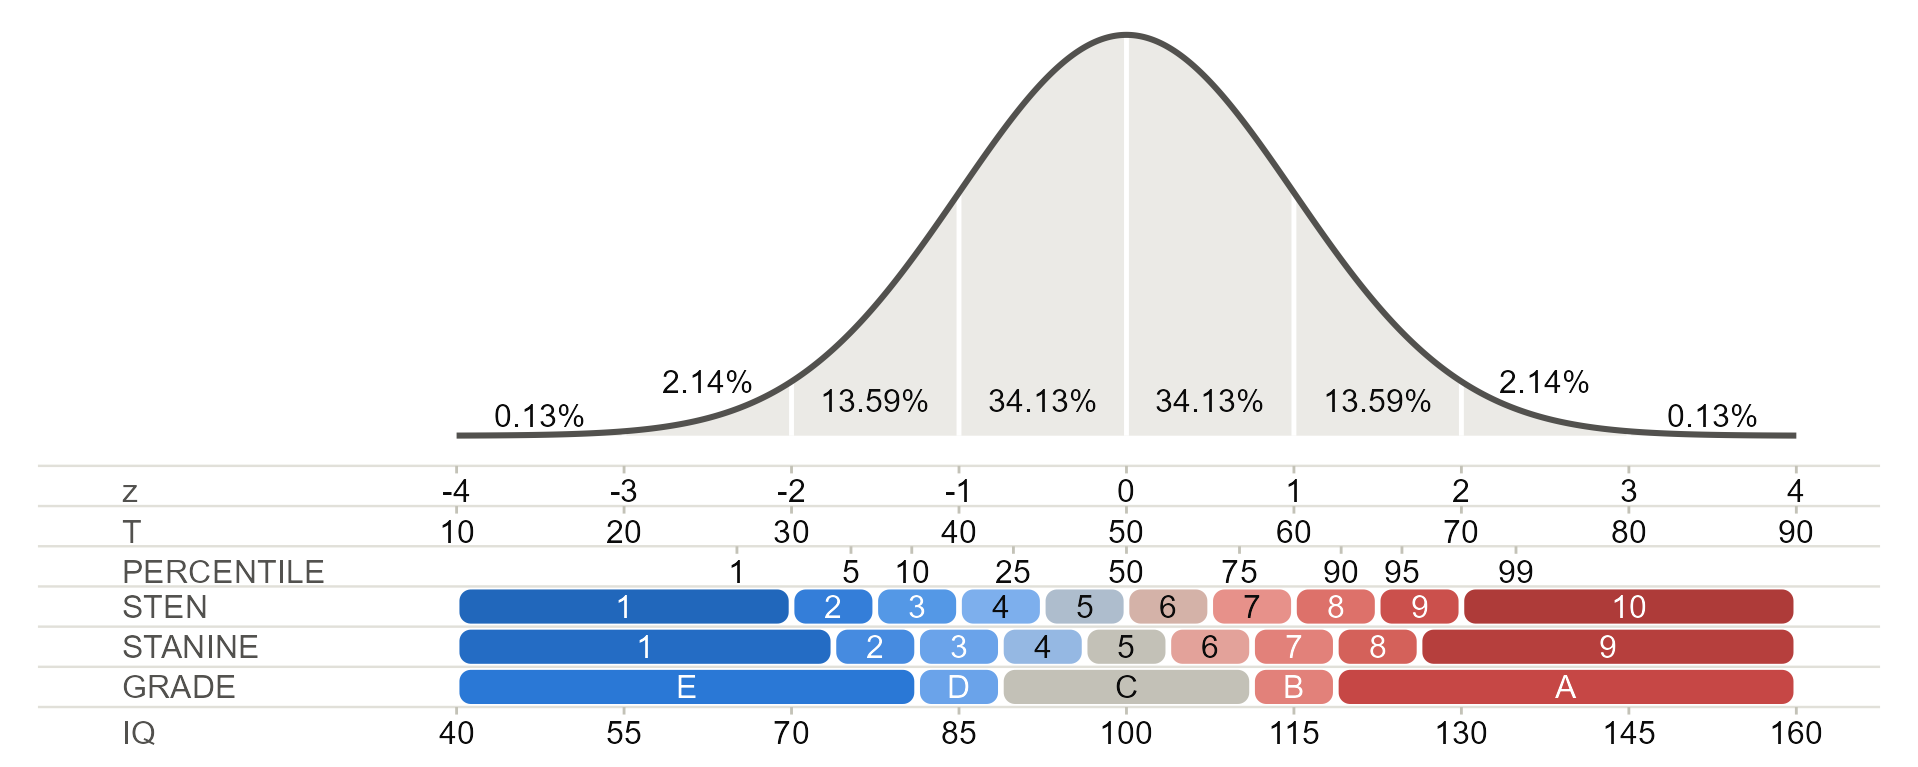
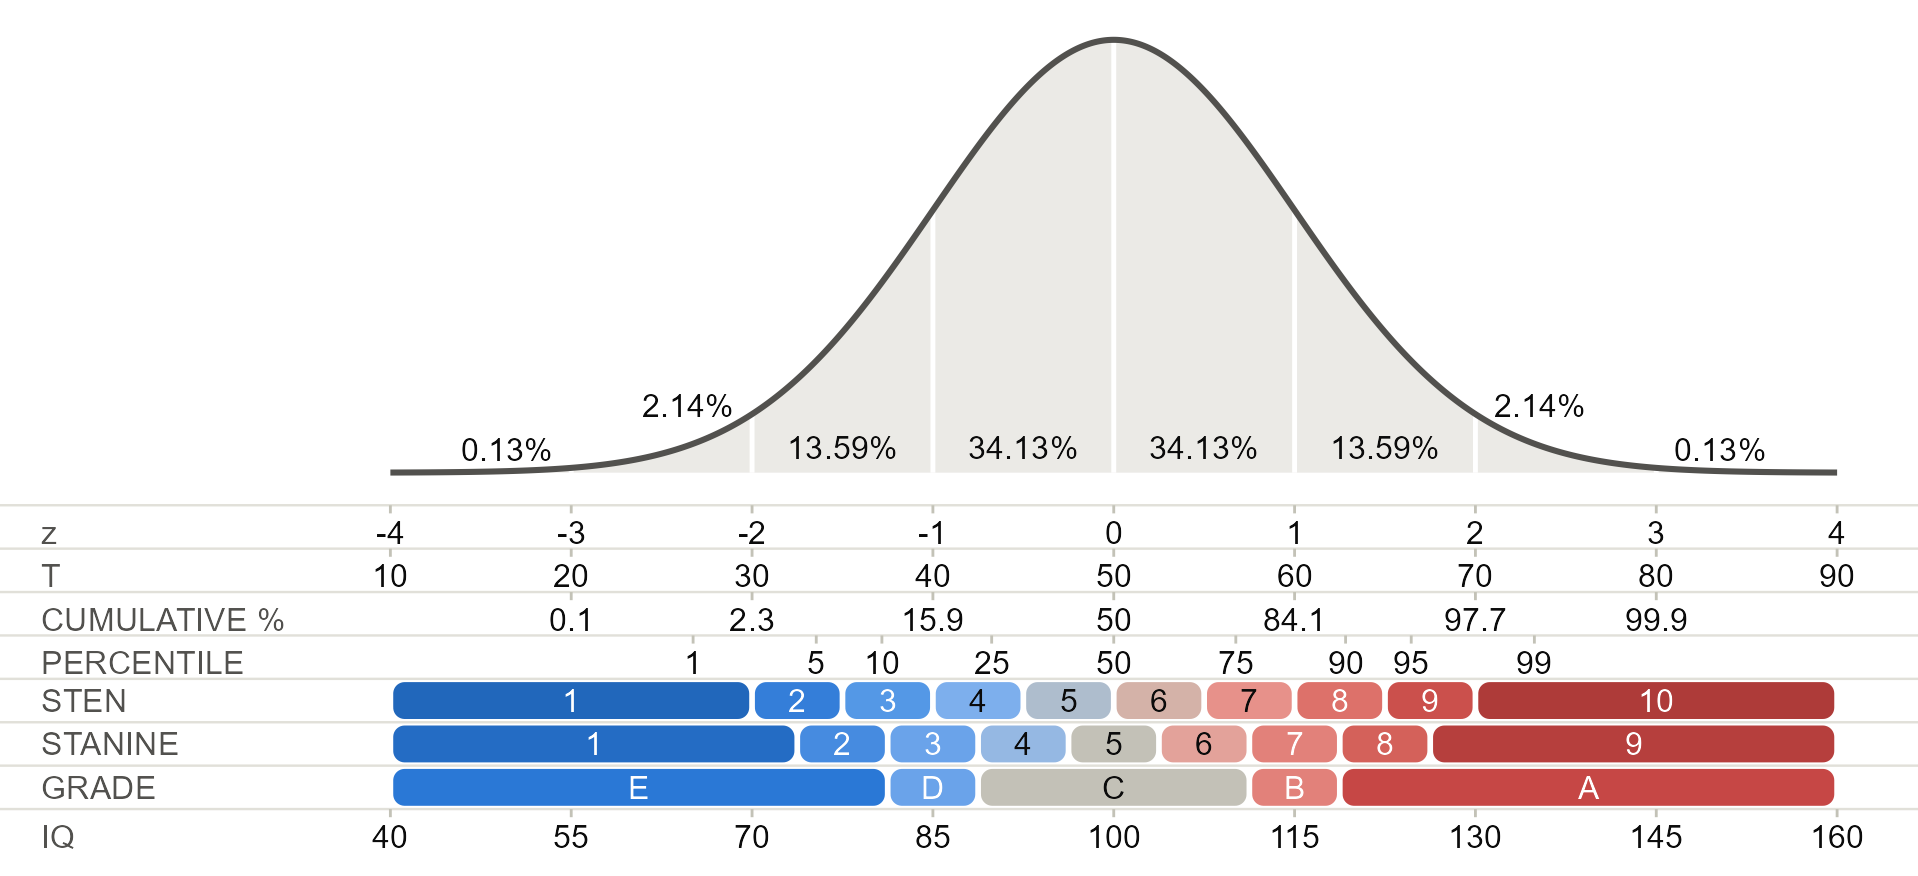
Add cumulative percentage scale
Include cumulative percentages at each standard deviation and refine chart spacing, labels, and line sizing to scale with text size. Update documentation and screenshot.

Changed region(s): [[0.0, 0.03, 0.9844, 0.9896]]

diff --git a/README.md b/README.md
@@ -1,6 +1,6 @@
 # Standard Normal Plot
 
-Draws the standard normal curve in R with score scales lined up under it: z, T, percentile, sten, stanine, grade and IQ, so that a score on one scale can be read off on the others. The sten, stanine and grade bands are coloured by where they sit against the mean: gray at the mean, blue below it and red above it, darker the further from the mean.
+Draws the standard normal curve in R with score scales lined up under it: z, T, cumulative percentage, percentile, sten, stanine, grade and IQ, so that a score on one scale can be read off on the others. The sten, stanine and grade bands are coloured by where they sit against the mean: gray at the mean, blue below it and red above it, darker the further from the mean.
 
 # Installation Instructions
 ## install R
@@ -29,7 +29,7 @@ install.packages(
 library(snp)
 standard_normal_plot()            # for large figures, about 12 inches wide
 standard_normal_scales()          # the same chart for figures about 7 inches wide
-ggsave("snp.png", standard_normal_scales(), width = 7, height = 2.8)
+ggsave("snp.png", standard_normal_scales(), width = 7, height = 3.2)
 
 # your own scales: tick marks for a test score and bands for performance levels
 my_scales <- rbind(data.frame(scale = "SCORE", z = -3:3, z_end = NA, label = seq(20, 80, 10)),
@@ -41,7 +41,7 @@ standard_normal_custom(my_scales)
 
 # Screenshot
 
-<img src="https://raw.githubusercontent.com/sedzinfo/snp/master/snp.png" alt="The standard normal curve with the share of cases in each standard deviation band (34.13%, 13.59%, 2.14%, 0.13%), above aligned scales of z scores, T scores, percentiles, stens, stanines, grades and IQ, the sten, stanine and grade bands blue below the mean, gray at it and red above it">
+<img src="https://raw.githubusercontent.com/sedzinfo/snp/master/snp.png" alt="The standard normal curve with the share of cases in each standard deviation band (34.13%, 13.59%, 2.14%, 0.13%), above aligned scales of z scores, T scores, cumulative percentages, percentiles, stens, stanines, grades and IQ, the sten, stanine and grade bands blue below the mean, gray at it and red above it">
 
 ---
 
